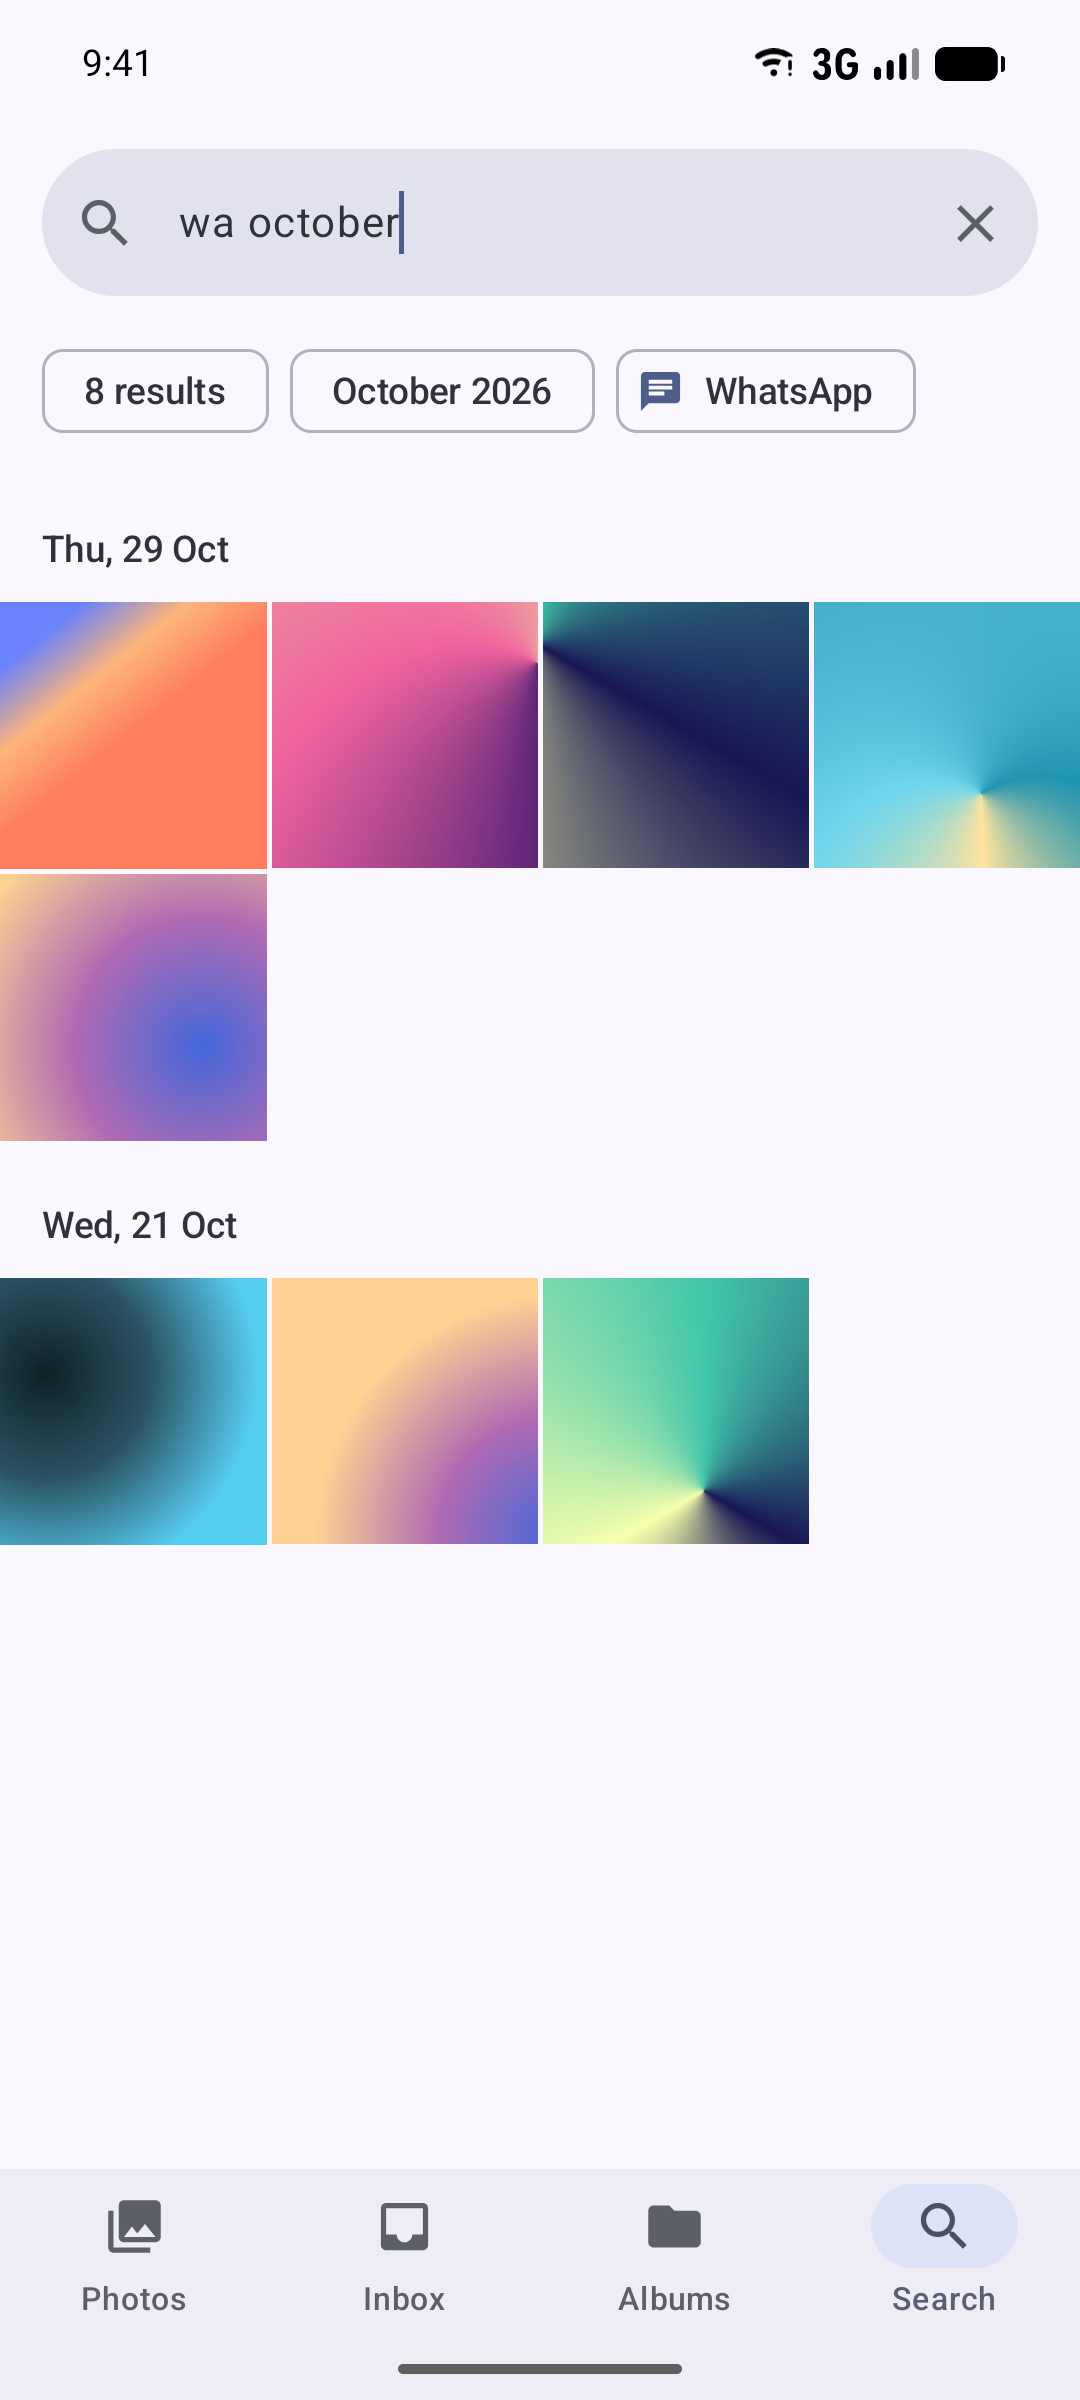
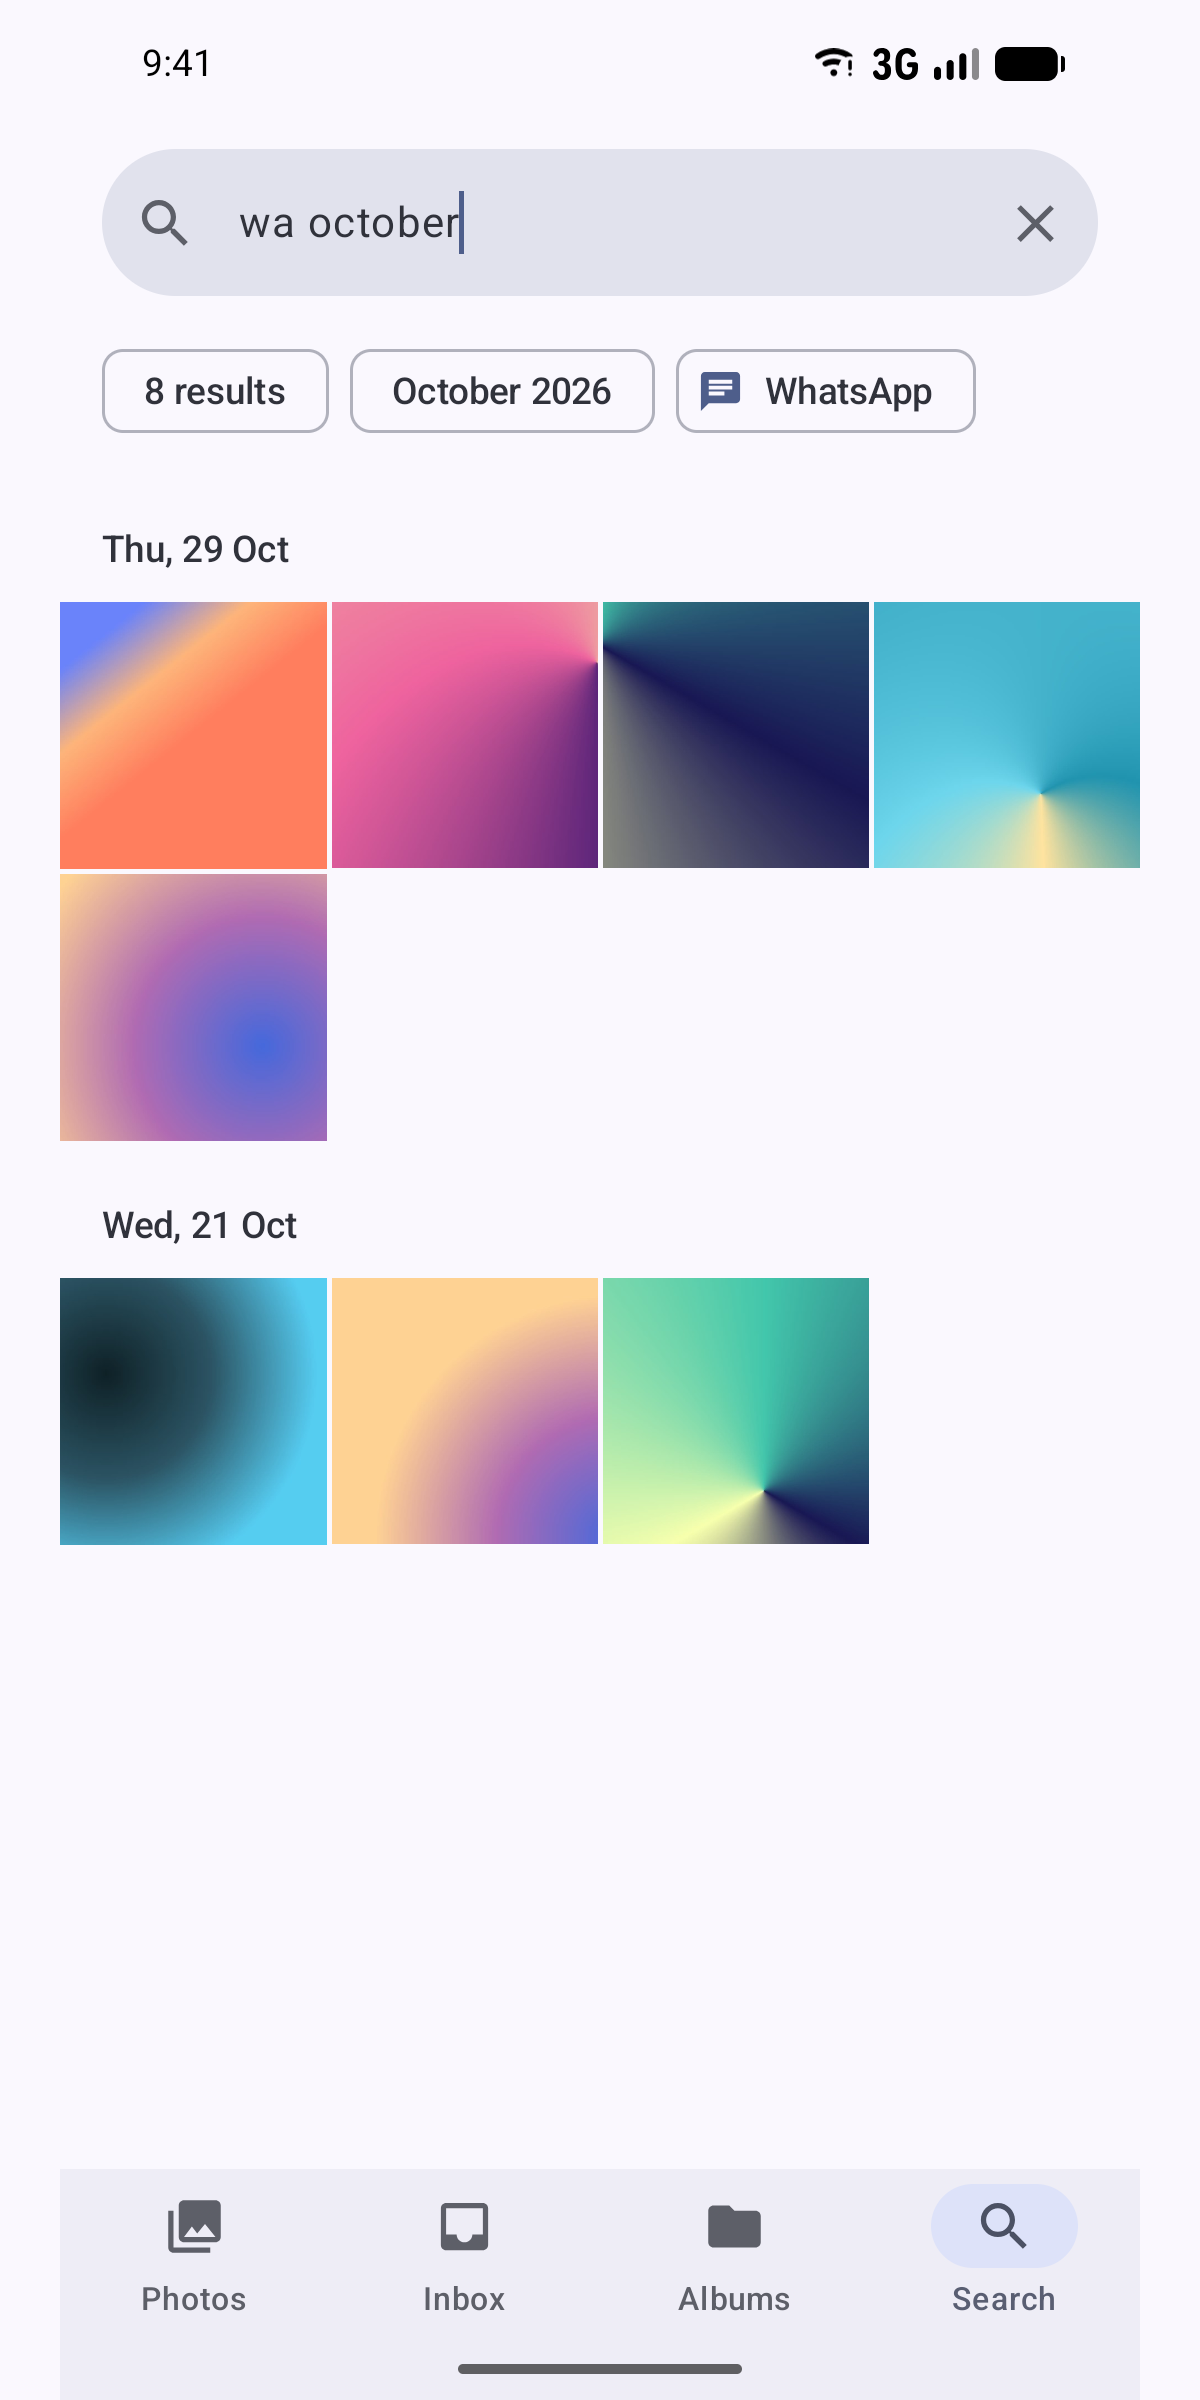
0.1.1: privacy policy and source links in Settings; padded store screenshots
Google Play requires the privacy policy to be reachable inside the app.
Screenshots are padded to 2:1 so Play accepts them.

diff --git a/feature/settings/src/main/kotlin/app/plaingallery/feature/settings/SettingsScreen.kt b/feature/settings/src/main/kotlin/app/plaingallery/feature/settings/SettingsScreen.kt
@@ -23,6 +23,7 @@ import androidx.compose.material3.SegmentedButton
 import androidx.compose.material3.SegmentedButtonDefaults
 import androidx.compose.material3.SingleChoiceSegmentedButtonRow
 import androidx.compose.material3.Text
+import androidx.compose.material3.TextButton
 import androidx.compose.material3.TopAppBar
 import androidx.compose.runtime.Composable
 import androidx.compose.runtime.collectAsState
@@ -36,6 +37,7 @@ import androidx.compose.ui.platform.LocalContext
 import androidx.compose.ui.res.pluralStringResource
 import androidx.compose.ui.res.stringResource
 import androidx.compose.ui.unit.dp
+import androidx.core.net.toUri
 import androidx.lifecycle.compose.LifecycleResumeEffect
 import app.plaingallery.core.data.settings.SettingsRepository
 import app.plaingallery.core.ui.LocalDataGraph
@@ -115,10 +117,20 @@ fun SettingsScreen(onBack: () -> Unit) {
                     style = MaterialTheme.typography.bodySmall,
                     color = MaterialTheme.colorScheme.onSurfaceVariant,
                 )
+                // Opens in the browser; the app itself has no network access.
+                TextButton(onClick = { runCatching { context.startActivity(Intent(Intent.ACTION_VIEW, PRIVACY_URL.toUri())) } }) {
+                    Text(stringResource(R.string.settings_privacy_policy))
+                }
+                TextButton(onClick = { runCatching { context.startActivity(Intent(Intent.ACTION_VIEW, SOURCE_URL.toUri())) } }) {
+                    Text(stringResource(R.string.settings_source_code))
+                }
             }
         }
     }
 }
+
+private const val PRIVACY_URL = "https://github.com/Matthew-Eucaristo/plain-gallery/blob/main/PRIVACY.md"
+private const val SOURCE_URL = "https://github.com/Matthew-Eucaristo/plain-gallery"
 
 @Composable
 private fun Section(title: String, body: String?, content: @Composable () -> Unit) {
